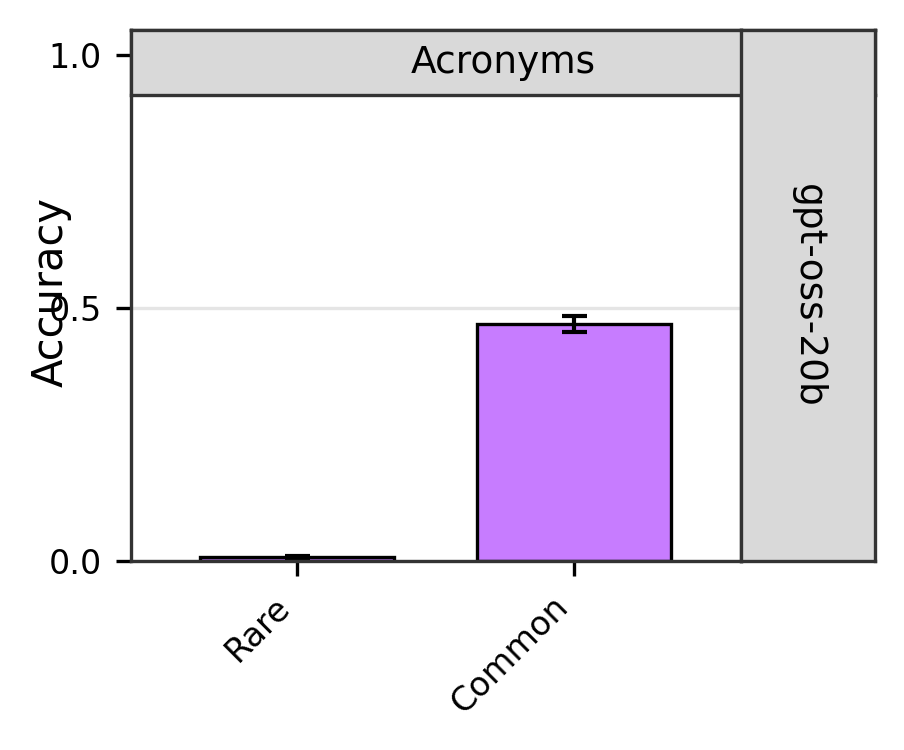
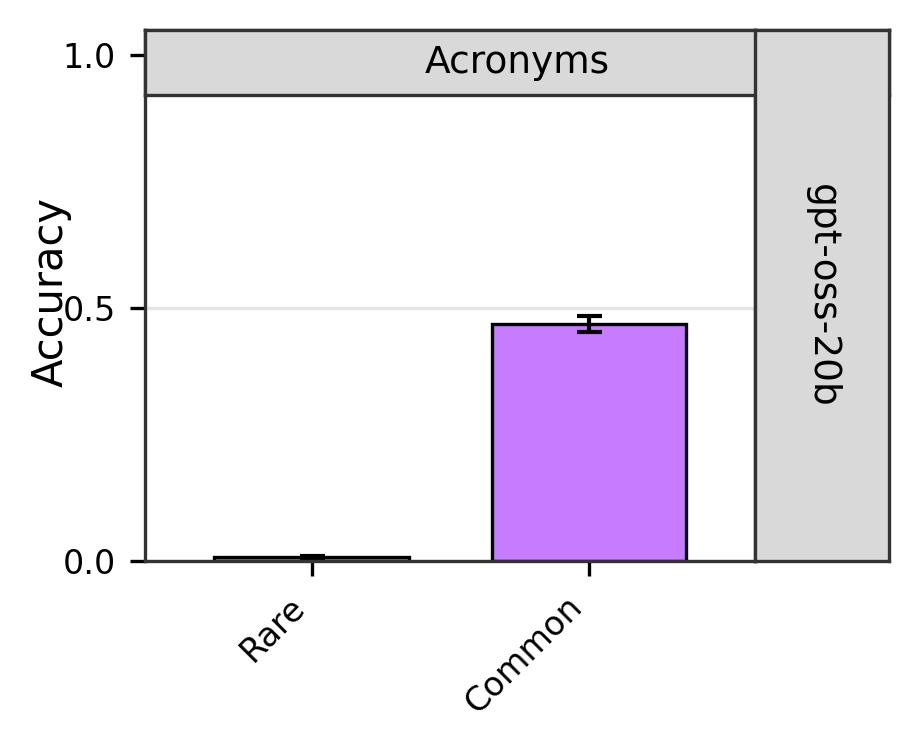
minor_updates (piglatin)

diff --git a/rare_vs_common_graph.py b/rare_vs_common_graph.py
@@ -113,7 +113,7 @@ def main():
                 strip(ax, col, "top")
             if c == len(cols) - 1:
                 strip(ax, m, "right")
-    fig.supylabel("Accuracy", fontsize=10)
+    fig.supylabel("Accuracy", fontsize=10, x=0.005)
 
     os.makedirs(OUTPUT_DIR, exist_ok=True)
     out = os.path.join(OUTPUT_DIR, f"{OUT_NAME}.png")
